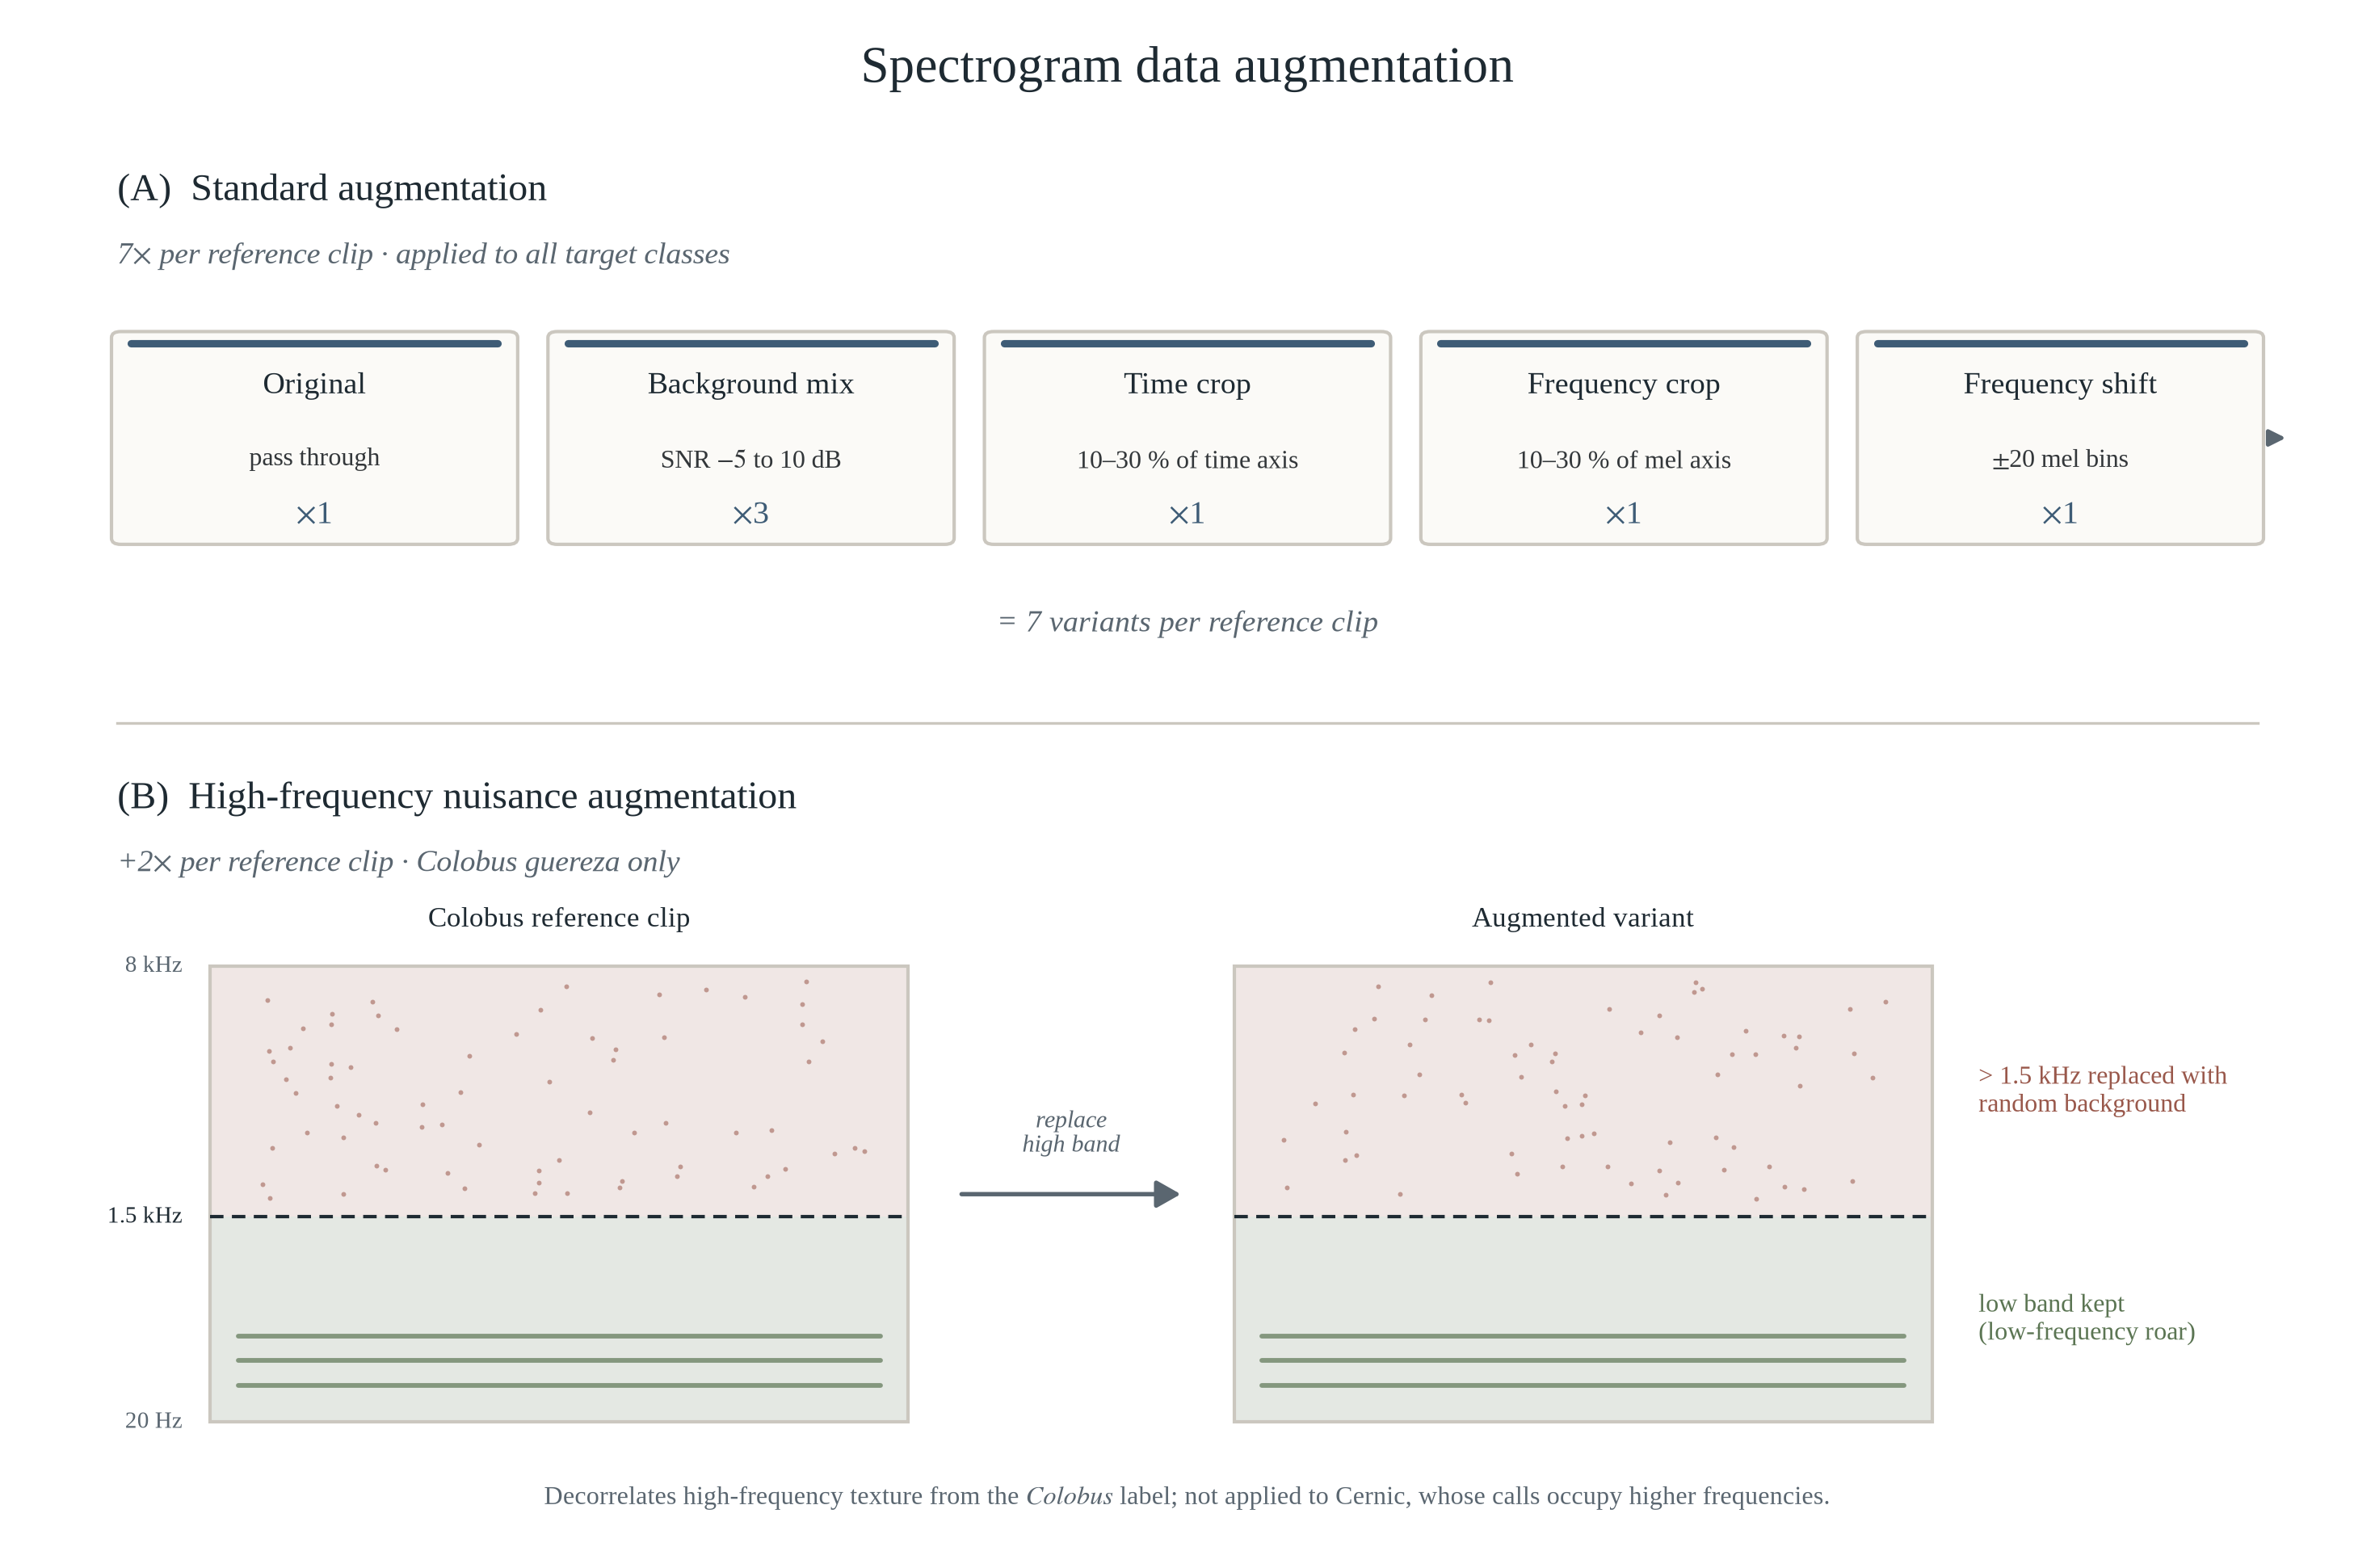
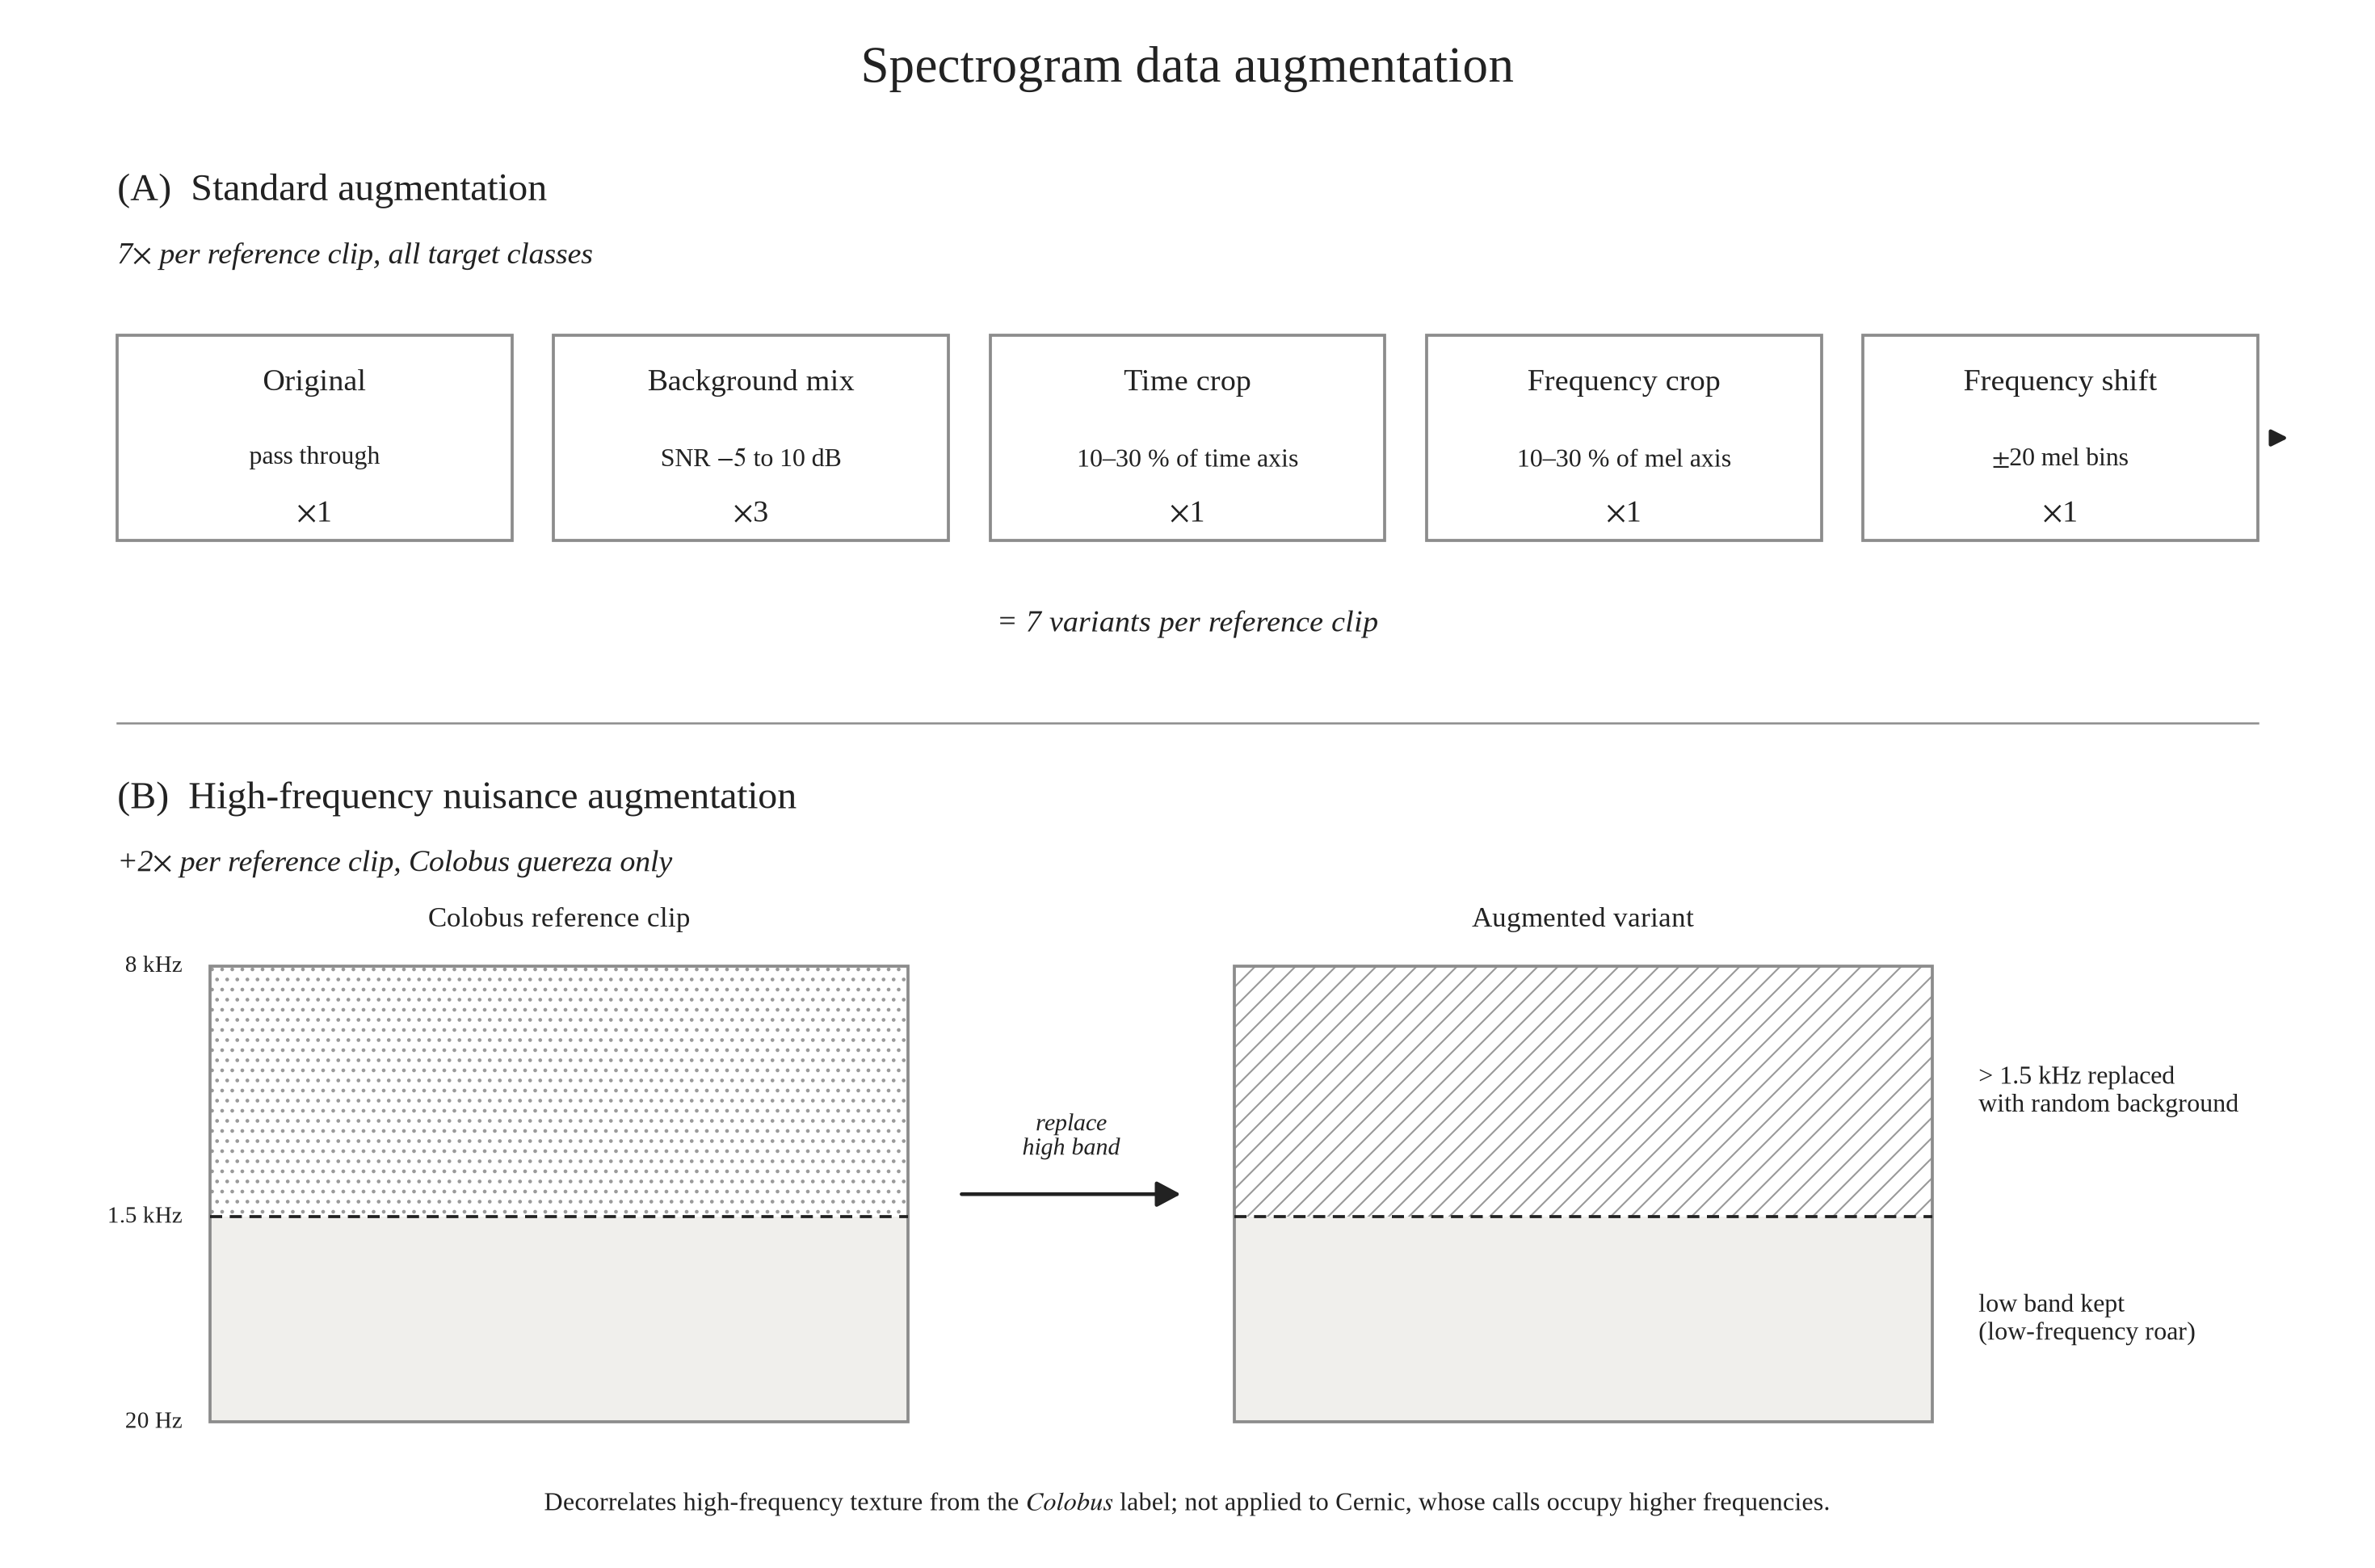
Make augmentation figure near-monochrome and more rigorous
Per review: reduce the "AI look" -- one serif typeface, a single ink text
colour (no grey text), plain hairline-bordered cards (drop coloured accent
bars and coloured multipliers), and neutral fills. The high-frequency
nuisance bands are now distinguished by hatching (dotted vs diagonal) rather
than colour, and the decorative scatter/roar marks are removed.

https://claude.ai/code/session_01GRhKW3iKJjm2wYYeUd56Hq

diff --git a/presentation_notebooks/make_augmentation_figure.py b/presentation_notebooks/make_augmentation_figure.py
@@ -1,25 +1,23 @@
 """
 Build the spectrogram data-augmentation figure for the manuscript (V12).
 
-Two parts, in the restrained academic style shared with the confusion-matrix
-and training-curve figures (Liberation Serif, muted palette, hairline frames):
+Restrained, near-monochrome journal style: a single serif typeface, one text
+colour (no grey text), thin hairline rules, neutral light fills, and hatching
+(rather than colour) to distinguish spectrogram bands. Minimal ornament.
 
-  (A) Standard augmentation -- 7x per reference clip, applied to all target
-      classes (Cernic, Colobus_guereza, Colobus_confuser).
-  (B) High-frequency nuisance augmentation -- +2x per reference clip, applied
-      only to Colobus_guereza: the mel band above 1.5 kHz is replaced with the
-      high band of a random background clip, leaving the low-frequency roar
-      intact. This decorrelates high-frequency texture from the Colobus label.
+  (A) Standard augmentation -- 7x per reference clip, all target classes.
+  (B) High-frequency nuisance augmentation -- +2x, Colobus_guereza only:
+      the mel band above 1.5 kHz is replaced with the high band of a random
+      background clip, leaving the low-frequency roar intact.
 
 Outputs:
   figures/augmentation_v12.pdf
   figures/augmentation_v12.png
 """
 from pathlib import Path
-import numpy as np
 import matplotlib as mpl
 import matplotlib.pyplot as plt
-from matplotlib.patches import FancyBboxPatch, Rectangle, FancyArrowPatch
+from matplotlib.patches import Rectangle, FancyArrowPatch
 
 # ── typography ────────────────────────────────────────────────────────────
 _SERIF_PREF = ["Times New Roman", "Liberation Serif", "Nimbus Roman",
@@ -28,19 +26,17 @@ mpl.rcParams["font.family"] = "serif"
 mpl.rcParams["font.serif"] = _SERIF_PREF
 mpl.rcParams["mathtext.fontset"] = "stix"
 mpl.rcParams["axes.unicode_minus"] = False
+mpl.rcParams["hatch.linewidth"] = 0.5
 
 OUT = Path(__file__).parent / "figures"
 OUT.mkdir(parents=True, exist_ok=True)
 
-# ── palette ───────────────────────────────────────────────────────────────
-INK = "#1E2A32"
-SUBINK = "#5A6670"
-BODY = "#33373A"
-PAPER = "#FBFAF7"
-FRAME = "#CBC7BF"
-ACCENT = "#3E5C76"      # standard-aug accent
-LOW = "#5B7553"         # kept low-frequency roar (muted green)
-HIGH = "#99584B"        # replaced high band (muted brick)
+# ── palette: one ink colour for all text/rules; neutral grey fills ─────────
+INK = "#222222"        # the single text / rule colour
+LINE = "#222222"
+FRAME = "#8C8C8C"      # thin box borders
+FILL = "#F0EFEC"       # neutral low-band / card fill
+HATCH = "#9A9A9A"      # hatch lines for the high band
 
 fig, ax = plt.subplots(figsize=(10, 6.4), dpi=300)
 ax.set_xlim(0, 100)
@@ -56,9 +52,8 @@ ax.text(50, 97, "Spectrogram data augmentation",
 # ══════════════════════════════════════════════════════════════════════════
 ax.text(4, 89, "(A)  Standard augmentation",
         ha="left", va="center", fontsize=11.5, color=INK)
-ax.text(4, 84.7,
-        "7$\\times$ per reference clip · applied to all target classes",
-        ha="left", va="center", fontsize=9, color=SUBINK, style="italic")
+ax.text(4, 84.7, "7$\\times$ per reference clip, all target classes",
+        ha="left", va="center", fontsize=9, color=INK, style="italic")
 
 cards = [
     ("Original", "pass through", "$\\times$1"),
@@ -74,107 +69,84 @@ cy, ch = 66, 13.5
 x0 = 4
 for i, (title, body, mult) in enumerate(cards):
     x = x0 + i * (cw + gap)
-    ax.add_patch(FancyBboxPatch(
-        (x, cy), cw, ch, boxstyle="round,pad=0.25,rounding_size=0.4",
-        facecolor=PAPER, edgecolor=FRAME, linewidth=1.0, zorder=2))
-    # thin accent rule along the top
-    ax.plot([x + 0.6, x + cw - 0.6], [cy + ch - 0.5, cy + ch - 0.5],
-            color=ACCENT, linewidth=2.2, zorder=3, solid_capstyle="round")
-    ax.text(x + cw / 2, cy + ch - 2.4, title, ha="center", va="top",
+    ax.add_patch(Rectangle((x, cy), cw, ch, facecolor="white",
+                           edgecolor=FRAME, linewidth=0.9, zorder=2))
+    ax.text(x + cw / 2, cy + ch - 2.2, title, ha="center", va="top",
             fontsize=9.2, color=INK)
-    ax.text(x + cw / 2, cy + ch / 2 - 1.4, body, ha="center", va="center",
-            fontsize=7.6, color=BODY, linespacing=1.3)
-    ax.text(x + cw / 2, cy + 1.6, mult, ha="center", va="center",
-            fontsize=9.5, color=ACCENT)
+    ax.text(x + cw / 2, cy + ch / 2 - 1.3, body, ha="center", va="center",
+            fontsize=7.6, color=INK, linespacing=1.3)
+    ax.text(x + cw / 2, cy + 1.7, mult, ha="center", va="center",
+            fontsize=9.2, color=INK)
 
-ax.annotate("", xy=(97.5, cy + ch / 2), xytext=(96.2, cy + ch / 2),
-            arrowprops=dict(arrowstyle="-|>", color=SUBINK, linewidth=1.2))
+ax.annotate("", xy=(97.6, cy + ch / 2), xytext=(96.4, cy + ch / 2),
+            arrowprops=dict(arrowstyle="-|>", color=INK, linewidth=1.1))
 ax.text(50, 60.5, "= 7 variants per reference clip",
-        ha="center", va="center", fontsize=9, color=SUBINK, style="italic")
+        ha="center", va="center", fontsize=9, color=INK, style="italic")
 
-# divider rule between the two parts
-ax.plot([4, 96], [54, 54], color=FRAME, linewidth=0.8, zorder=1)
+ax.plot([4, 96], [54, 54], color=FRAME, linewidth=0.6, zorder=1)
 
 # ══════════════════════════════════════════════════════════════════════════
 # (B) High-frequency nuisance augmentation -- +2x, Colobus only
 # ══════════════════════════════════════════════════════════════════════════
 ax.text(4, 49, "(B)  High-frequency nuisance augmentation",
         ha="left", va="center", fontsize=11.5, color=INK)
-ax.text(4, 44.7,
-        "+2$\\times$ per reference clip · Colobus guereza only",
-        ha="left", va="center", fontsize=9, color=SUBINK, style="italic")
+ax.text(4, 44.7, "+2$\\times$ per reference clip, Colobus guereza only",
+        ha="left", va="center", fontsize=9, color=INK, style="italic")
 
-# mel-spectrogram schematic; on a mel axis 1.5 kHz sits at ~45 % of the height
 SPEC_Y, SPEC_H = 8, 30
-DIV = 0.45                      # fraction of height for the 1.5 kHz divider
-rng = np.random.default_rng(7)
+DIV = 0.45                       # 1.5 kHz sits at ~45 % of the mel axis
 
 
-def draw_spec(x, w, replaced):
-    """Draw a schematic mel-spectrogram with a low (kept) and high band."""
+def draw_spec(x, w, hatch):
+    """Schematic mel-spectrogram: plain low band, hatched high band."""
     yb, yt = SPEC_Y, SPEC_Y + SPEC_H
     yd = yb + DIV * SPEC_H
-    # low band -- kept low-frequency roar
-    ax.add_patch(Rectangle((x, yb), w, yd - yb, facecolor=LOW, alpha=0.16,
+    # low band -- kept (neutral fill, no texture)
+    ax.add_patch(Rectangle((x, yb), w, yd - yb, facecolor=FILL,
                            edgecolor="none", zorder=2))
-    # high band -- bird/insect texture or replacement
-    ax.add_patch(Rectangle((x, yd), w, yt - yd, facecolor=HIGH, alpha=0.14,
-                           edgecolor="none", zorder=2))
-    # harmonic roar bands in the low region (identical in both panels)
-    for fr in (0.18, 0.30, 0.42):
-        yy = yb + fr * (yd - yb)
-        ax.plot([x + 0.04 * w, x + 0.96 * w], [yy, yy], color=LOW,
-                linewidth=1.4, alpha=0.7, zorder=3, solid_capstyle="round")
-    # high-band "noise" marks; a different random pattern when replaced
-    seed = 23 if replaced else 11
-    r = np.random.default_rng(seed)
-    xs = x + (0.06 + 0.88 * r.random(70)) * w
-    ys = yd + (0.06 + 0.88 * r.random(70)) * (yt - yd)
-    ax.scatter(xs, ys, s=2.0, color=HIGH, alpha=0.55, zorder=3, linewidths=0)
-    # frame + divider
+    # high band -- hatched (pattern encodes its content)
+    ax.add_patch(Rectangle((x, yd), w, yt - yd, facecolor="white",
+                           edgecolor=HATCH, hatch=hatch, linewidth=0.0,
+                           zorder=2))
+    # outer frame + 1.5 kHz divider
     ax.add_patch(Rectangle((x, yb), w, SPEC_H, fill=False, edgecolor=FRAME,
-                           linewidth=1.0, zorder=4))
+                           linewidth=0.9, zorder=4))
     ax.plot([x, x + w], [yd, yd], color=INK, linestyle=(0, (4, 2.5)),
-            linewidth=1.0, zorder=5)
+            linewidth=0.9, zorder=5)
     return yb, yt, yd
 
 
-# original Colobus clip
 ox, ow = 8, 30
-yb, yt, yd = draw_spec(ox, ow, replaced=False)
+yb, yt, yd = draw_spec(ox, ow, hatch="....")
 ax.text(ox + ow / 2, yt + 2.2, "Colobus reference clip", ha="center",
         va="bottom", fontsize=8.5, color=INK)
-# frequency labels (left of the original)
-ax.text(ox - 1.2, yb, "20 Hz", ha="right", va="center", fontsize=7, color=SUBINK)
+ax.text(ox - 1.2, yb, "20 Hz", ha="right", va="center", fontsize=7, color=INK)
 ax.text(ox - 1.2, yd, "1.5 kHz", ha="right", va="center", fontsize=7, color=INK)
-ax.text(ox - 1.2, yt, "8 kHz", ha="right", va="center", fontsize=7, color=SUBINK)
+ax.text(ox - 1.2, yt, "8 kHz", ha="right", va="center", fontsize=7, color=INK)
 
-# arrow to the augmented clip
 ax.add_patch(FancyArrowPatch((ox + ow + 2, yb + SPEC_H / 2),
                              (ox + ow + 12, yb + SPEC_H / 2),
-                             arrowstyle="-|>,head_length=6,head_width=3.4",
-                             color=SUBINK, linewidth=1.3, zorder=6))
-ax.text(ox + ow + 7, yb + SPEC_H / 2 + 2.4, "replace\nhigh band", ha="center",
-        va="bottom", fontsize=7.2, color=SUBINK, style="italic", linespacing=1.1)
+                             arrowstyle="-|>,head_length=6,head_width=3.2",
+                             color=INK, linewidth=1.1, zorder=6))
+ax.text(ox + ow + 7, yb + SPEC_H / 2 + 2.2, "replace\nhigh band", ha="center",
+        va="bottom", fontsize=7.2, color=INK, style="italic", linespacing=1.1)
 
-# augmented clip
 ax2, aw = ox + ow + 14, 30
-yb2, yt2, yd2 = draw_spec(ax2, aw, replaced=True)
+yb2, yt2, yd2 = draw_spec(ax2, aw, hatch="////")
 ax.text(ax2 + aw / 2, yt2 + 2.2, "Augmented variant", ha="center",
         va="bottom", fontsize=8.5, color=INK)
 
-# band annotations (to the right of the augmented clip)
+ax.text(ax2 + aw + 2, yd2 + 0.5 * (yt2 - yd2),
+        "> 1.5 kHz replaced\nwith random background", ha="left", va="center",
+        fontsize=7.6, color=INK, linespacing=1.2)
 ax.text(ax2 + aw + 2, yb2 + 0.5 * (yd2 - yb2),
         "low band kept\n(low-frequency roar)", ha="left", va="center",
-        fontsize=7.6, color=LOW, linespacing=1.2)
-ax.text(ax2 + aw + 2, yd2 + 0.5 * (yt2 - yd2),
-        "> 1.5 kHz replaced with\nrandom background", ha="left", va="center",
-        fontsize=7.6, color=HIGH, linespacing=1.2)
+        fontsize=7.6, color=INK, linespacing=1.2)
 
-ax.text(50, 3.0,
-        "Decorrelates high-frequency texture from the $\\mathit{Colobus}$ label; "
-        "not applied to Cernic, whose calls occupy higher frequencies.",
-        ha="center", va="center", fontsize=7.8, color=SUBINK)
+ax.text(50, 2.6,
+        "Decorrelates high-frequency texture from the $\\mathit{Colobus}$ "
+        "label; not applied to Cernic, whose calls occupy higher frequencies.",
+        ha="center", va="center", fontsize=7.8, color=INK)
 
 plt.subplots_adjust(left=0.02, right=0.98, top=0.99, bottom=0.01)
 